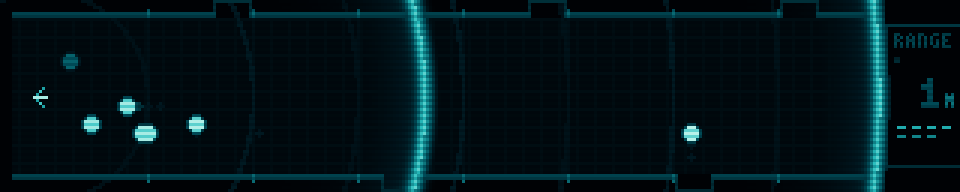
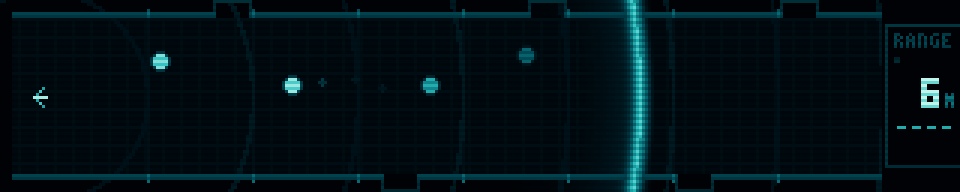
tracker: preview and screenshot from mid-approach, not the swarm
Aimed at 50 s: the sweep crosses most of the corridor inside the two-second
clip, four contacts are spread along it with ghosts, and the readout is in
single digits. The swarm frame had everything bunched at the origin.

diff --git a/demos/scripts/make-previews.py b/demos/scripts/make-previews.py
@@ -77,11 +77,12 @@ WARMUP = {
     # a gateway; trench wants the targeting computer already down; esper wants
     # the last enhance, where the iron is what is on screen.
     "tron": 16.0, "sneakers": 11.0, "fsn": 22.0, "trench": 20.0, "esper": 46.0,
-    # tracker is a minute of a readout counting down and the last ten seconds
-    # are what it was counting down to: aimed at the swarm, where the pulse is
-    # firing twice a second and things are coming out of the side doors, so a
-    # two-second clip has a sweep, fresh blips and a low number in it.
-    "tracker": 58.0,
+    # tracker is a minute of a readout counting down. Aimed at 50 s, the
+    # middle of the approach: the sweep crosses most of the corridor inside
+    # the clip, four contacts are spread along it with ghosts behind them,
+    # and the readout is in single digits. The swarm at 58 s is the climax
+    # but has everything bunched at the origin and an empty corridor.
+    "tracker": 50.0,
     "sf-tree-bounce": 2.0, "space-invaders": 2.0, "pacman": 1.0, "sewing": 1.0,
     # voxel has to be at the Gate: the tour is 210 s of which the bridge is a
     # few, and every other second of it is a shoreline on the horizon that
